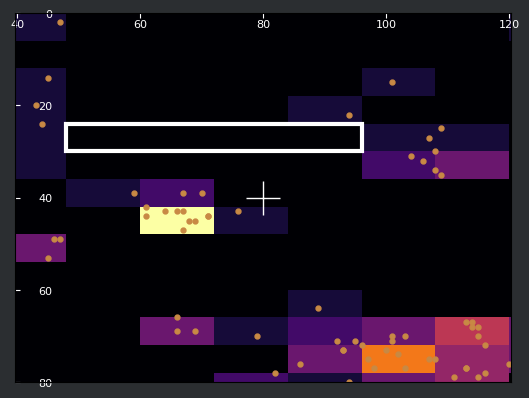
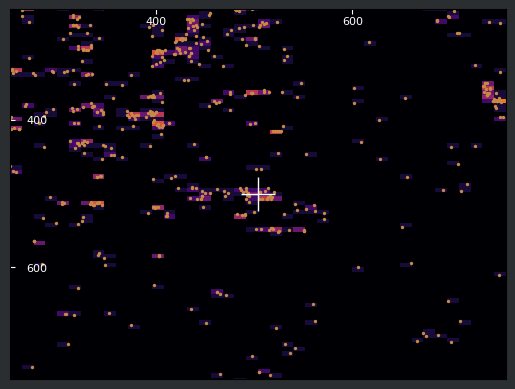
+ GalaxyCanvas

diff --git a/Utils/GalaxyCanvas.py b/Utils/GalaxyCanvas.py
@@ -1,0 +1,190 @@
+from typing import List
+from dotenv import load_dotenv
+from Utils.DataBase import DataBase
+import math
+from matplotlib.colors import ListedColormap
+import re
+import matplotlib
+import matplotlib as mpl
+import matplotlib.pyplot as plt
+from discord.ext import commands
+from Models.Alliance_Model import Alliance_Model
+from Models.Colony_Model import Colony_Model
+from Models.Player_Model import Player_Model
+from Models.Colonies_List_Model import Colonies_List_Model
+import os
+from matplotlib.patches import Rectangle
+
+import discord
+from discord.ext import commands
+import datetime
+import time
+from Utils.Dropdown import DropView
+from Models.War_Model import War_Model
+from Models.Alliance_Model import Alliance_Model
+from Models.Player_Model import Player_Model
+from Models.Colony_Model import Colony_Model
+from Models.InfoMessage_Model import InfoMessage_Model
+from pymongo.cursor import Cursor
+from typing import List
+from Models.Colors import Colors
+import math
+import asyncio
+import random as random
+load_dotenv()
+
+class GalaxyCanvas:
+
+  def __init__(self, bot: commands.Bot):
+    self.bot = bot
+    self.list_x = list()
+    self.list_y = list()
+    self.list_x_player = list()
+    self.list_y_player = list()   
+
+  def plot_scouted_colonies(self, size_x, size_y):  
+      for it in range(0, len(self.all_colonies)):
+        if "x" in self.all_colonies[it]['colo_coord']:
+          if self.all_colonies[it]["updated"] == True:
+            if self.all_colonies[it]["colo_coord"]["x"] != -1 and self.all_colonies[it]["colo_coord"]["x"] != "-1" and self.all_colonies[it]["colo_coord"]["y"] != -1 and self.all_colonies[it]["colo_coord"]["y"] != "-1":
+              if self.all_colonies[it]["colo_coord"]["x"] <=  size_x and  self.all_colonies[it]["colo_coord"]["y"] <= size_y:
+                self.list_x.append(self.all_colonies[it]['colo_coord']['x'])
+                self.list_y.append(self.all_colonies[it]['colo_coord']['y'])
+            
+  def plot_found_colonies(self, size_x, size_y):
+      it = 0
+      for it in range(len(self.colo_db)):
+        if self.colo_db[it]["X"] != -1:
+          if self.colo_db[it]["X"] <=  size_x and self.colo_db[it]["Y"] <=  size_y:
+            self.list_x.append(self.colo_db[it]["X"])
+            self.list_y.append(self.colo_db[it]["Y"])
+
+  def my_colonies(self, zoom, color, player=None):
+    list_x_player = []
+    list_y_player = []   
+    return_value: dict = {} 
+    list_x_player = list_x_player + list(player["x"])
+    list_y_player = list_y_player + list(player["y"])
+    plt.scatter(list_x_player, list_y_player, color = color, alpha=0.8, s=30*zoom)
+    return_value["x"] = list_x_player
+    return_value["y"] = list_y_player
+    return return_value
+
+            
+  def alliance_colonies(self): 
+    alliance = 'JE SUIS TON FILS'
+    alliance_info: Alliance_Model = self.bot.db.get_one_alliance("name", alliance)
+    obj: dict = {"_alliance_id": alliance_info["_id"]}
+    players: List[Player_Model] = self.bot.db.get_players(obj)
+    alliance_dict: list = []
+    for player in players:
+      list_x= list()
+      list_y= list()
+      obj: dict = {"_player_id": player["_id"]}
+      colonies: List[Colony_Model] = list(self.bot.db.get_colonies(obj))
+      for colo in colonies:
+          if colo['colo_coord']['x'] != -1:
+            list_x.append(colo['colo_coord']['x'])
+            list_y.append(colo['colo_coord']['y'])
+      if list_x != []:
+        dict_player = {"pseudo":player["pseudo"], "x":list_x, "y":list_y}
+        alliance_dict.append(dict_player)
+    return alliance_dict
+    
+  def update_lists(self):
+    self.all_colonies = list(self.bot.db.get_all_updated_colonies())
+    self.colo_db: List = list(self.bot.db.get_all_found_colonies())
+    size_y = 1002
+    size_x = 1008
+    self.list_x: list = []
+    self.list_y: list = []
+    self.plot_found_colonies( size_x, size_y) # fix that, freezing/
+    self.plot_scouted_colonies( size_x, size_y)
+    list_x_store: Colonies_List_Model = {"name": "x", "list": self.list_x}
+    list_y_store: Colonies_List_Model = {"name": "y", "list": self.list_y}
+    self.bot.db.push_colonies_list(list_x_store)
+    self.bot.db.push_colonies_list(list_y_store)
+    
+  def draw_map(self, zoom, pos_x, pos_y, players_list=None):
+    obj = None
+    list = self.bot.db.get_colonies_list(obj)
+    size_x: int = max(list[0]["list"]) / zoom
+    size_y: int = max(list[1]["list"]) / zoom
+    fig,ax = plt.subplots(1)
+    ax.xaxis.tick_top()
+    ax.tick_params(axis='x', colors='white', direction="in", pad=-12)
+    ax.tick_params(axis='y', colors='white', direction="in", pad=-27)
+    ax.locator_params(axis='x', nbins=5)
+    ax.locator_params(axis='y', nbins=5)
+    cmap = ListedColormap(["#000000","#00163e","#012c79","#012c79", "#0140b0", "#0140b0", "#0244ba", "#0244ba", "#0244ba", "#0244ba"])
+    cmap_black = ListedColormap(["#000000"])
+    if zoom >= 2:
+      myHist, xedges, yedges, image  = plt.hist2d(list[0]["list"], list[1]["list"], bins=[84,167], cmap="inferno",  norm = mpl.colors.Normalize(vmin=0, vmax=10)) #, range=[[0, 100], [0, 100]] #,  norm = mpl.colors.Normalize(vmin=0, vmax=10)
+      # Empty_zone_locator:
+      x: int = 0
+      y: int = 0
+      it: int = 0
+      for hist_column in myHist:
+        for hist_line in hist_column:
+          y = 0
+          while y <= 10: 
+            if hist_line == 0:
+              
+              it = 0
+              while it < 3:
+                if myHist[x][y] == 0:
+                  it += 1
+                  x += 1
+                else: 
+                  break
+            if it >= 3:
+              print(x*12 - (it+1)*12,y*6 - (it+1)*6)
+              ax.add_patch(Rectangle((x*12- (it+1)*12, y*6- (it+1)*6), (it+1)*12, 6, facecolor='none', edgecolor='white', linewidth=3))
+              break
+            
+            y += 1
+          if it >= 3:
+              break
+            
+        x += 1
+        
+        if it >= 3:
+          break
+    else:
+      myHist, xedges, yedges, image  = plt.hist2d(list[0]["list"], list[1]["list"], bins=[84,167], cmap=cmap_black,  norm = mpl.colors.Normalize(vmin=0, vmax=10)) #, range=[[0, 100], [0, 100]] #,  norm = mpl.colors.Normalize(vmin=0, vmax=10)
+
+    # previous blue: c2e4ff
+    if players_list != None:
+      total_list_x: list = []
+      total_list_y: list = []
+      color: list = ["#ff080c","#10ff08","#7f03fc","#036bfc","#fc5603"]
+      for player in range(0, len(players_list)):
+        list_players: list = self.my_colonies(zoom, color[player%5], players_list[player])
+        total_list_x +=  list_players['x']
+        total_list_y +=  list_players['y']
+      
+      pos_x: int = int((max(total_list_x)+min(total_list_x))/2)
+      pos_y: int = int((max(total_list_y)+min(total_list_y))/2)
+      # prendre le max de longueur relative a pos_x et pos_y: il faut refaire la liste
+      for it in range(0, len(total_list_x)):
+        print('enters')
+        total_list_x[it] = int(total_list_x[it]) - pos_x
+        print('leaves')
+      for it in range(0, len(total_list_y)):
+        total_list_y[it] = int(total_list_y[it]) - pos_y
+      size_x: int = max(total_list_y + total_list_x) #- int(min(total_list_x))
+      size_y: int = max(total_list_y + total_list_x) #- int(min(total_list_y))
+      # if int(pos_x) < 0.5*size_x :
+      #     pos_x =  0.5*size_x
+      # if int(pos_y) < 0.5*size_y :
+      #   pos_y =  0.5*size_y
+      # if int(pos_x) > 1008 - 0.5*size_x :
+      #   pos_x =  1008 - 0.5*size_x
+      # if int(pos_y) > 1002 - 0.5*size_y :
+      #   pos_y =  1002 - 0.5*size_y
+    plt.scatter(list[0]["list"], list[1]["list"], color = '#c88944', alpha=1, s=1*zoom)
+    plt.plot(pos_x, pos_y, 'w+', markersize=25)
+    plt.axis([pos_x - 0.5*size_x,  pos_x + 0.5*size_x, pos_y + 0.5*size_y , pos_y - 0.5*size_y])
+    plt.yticks(fontsize=8)
+    plt.xticks(fontsize=8)
+    plt.savefig('./Image/scout_map.png', bbox_inches='tight', dpi=100, edgecolor="black", facecolor="#2b2e31")
